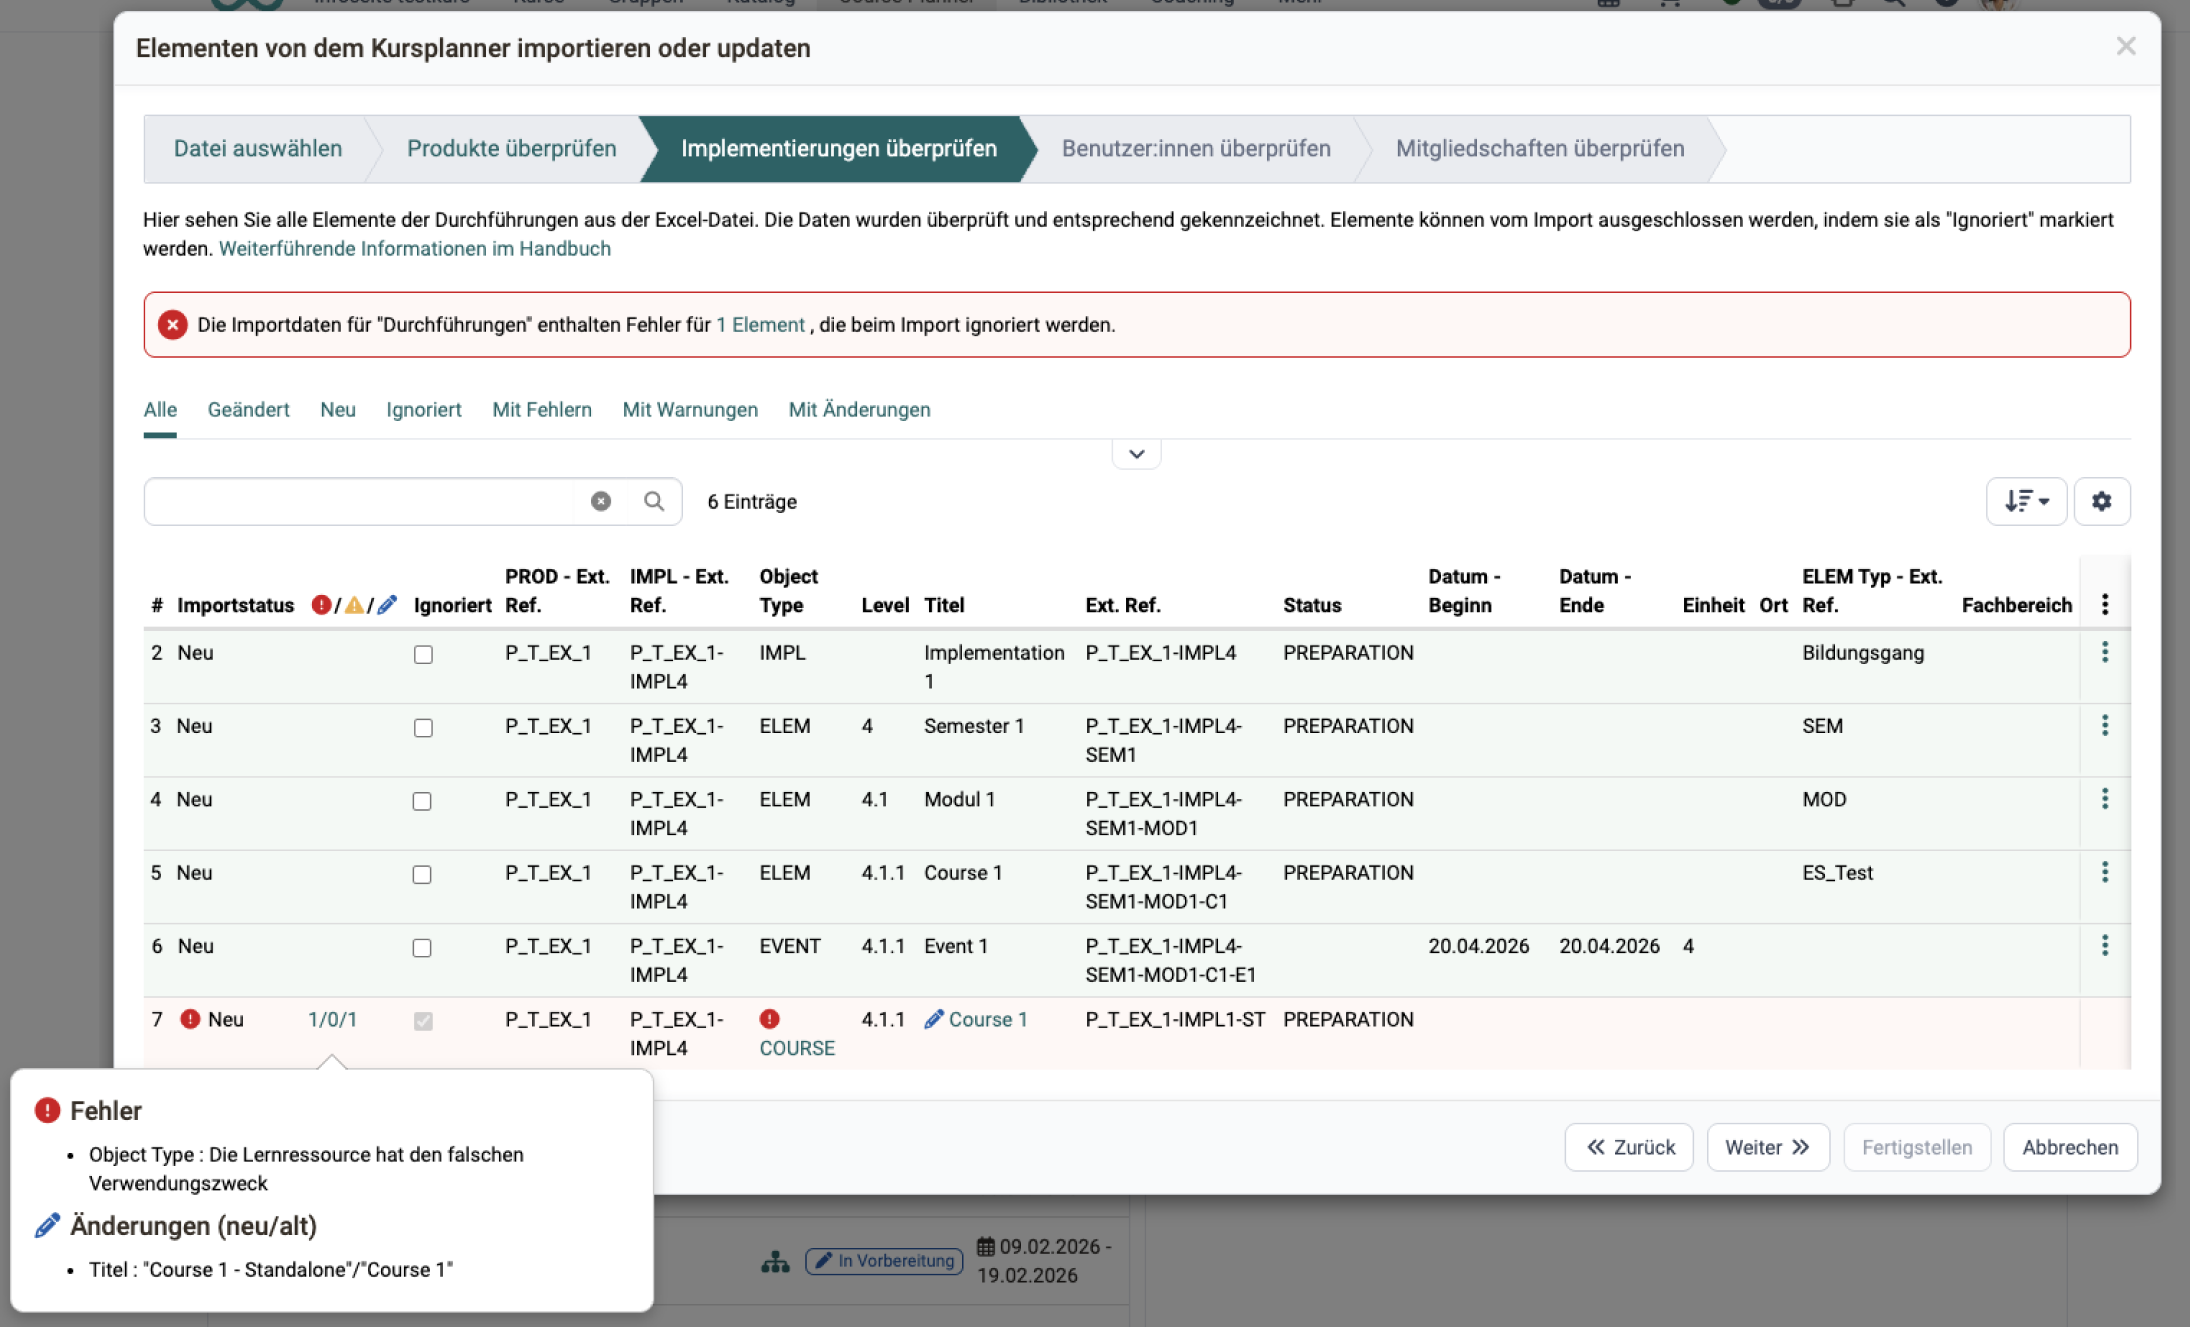
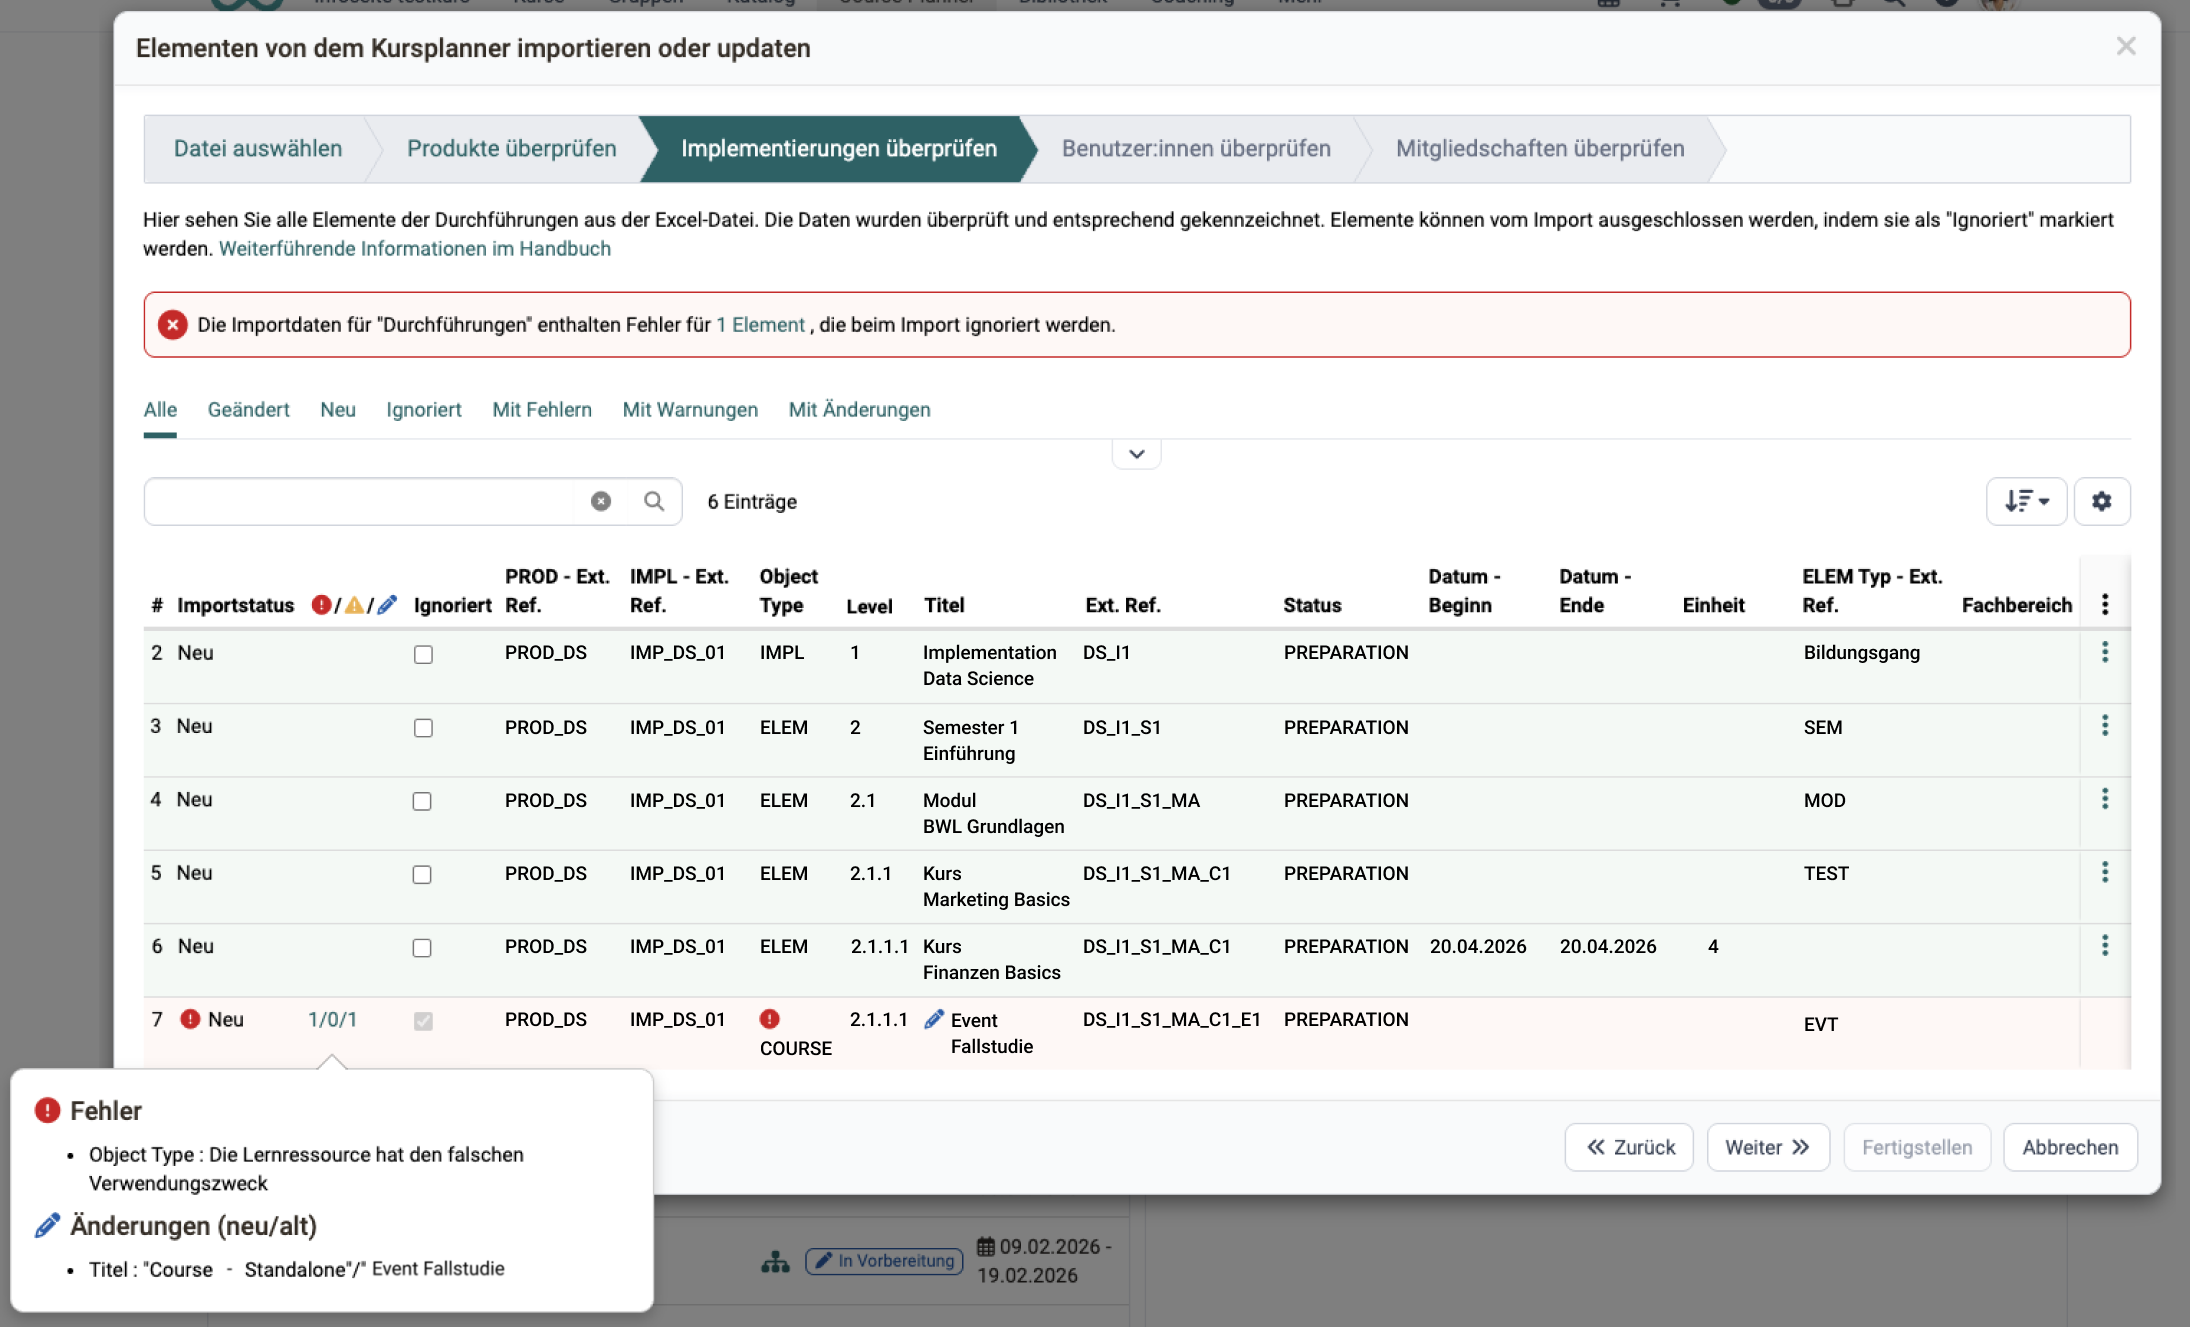
Update: release notes 20.3 and image – CPL: technical details are still pending

diff --git a/sites/release_notes/docs/Release_notes_20.3.de.md b/sites/release_notes/docs/Release_notes_20.3.de.md
@@ -8,54 +8,51 @@
 
 * * *
 
-Mit **OpenOlat 20.3** wurden zentrale Bereiche der Plattform gezielt weiterentwickelt. Im Fokus standen die flexible Gestaltung und Erweiterungen der **persönlichen Dashboards**, der neue **Master Import** im Course Planner sowie zahlreiche Verbesserungen für eine effizientere Nutzung im Alltag.
-
-Das persönliche Dashboard wurde neu individualisierbar gestaltet – Widgets können nun frei angeordnet, ein- oder ausgeblendet werden. Zudem wurde im Course Planner mit dem neuen Master Import das effiziente Anlegen und Ergänzen von Durchführungen, Terminen und Mitgliedschaften per Excel ermöglicht.
+Mit **OpenOlat 20.3** wurden zentrale Bereiche weiterentwickelt. Der Fokus lag auf der flexiblen Gestaltung der **Widgets**, dem neuen **Master-Import/Export** im Course Planner und zahlreichen Verbesserungen für eine effizientere Nutzung im Alltag.
 
 ## Highlights
 
-**Dasbhboards und Widgets** – Die Dashboards un Coachtig Tool und dem Course Planner wurden um neue und erweiterte Widgets ergänzt. Das persönliche Dashboard kann individuell gestaltet werden und der Course Planner bietet eine kompakte Übersicht über laufende Durchführungen. Das Coaching Tool wurde um ein Ereignis- und ein Kalender-Widget erweitert, die bevorstehende Termine übersichtlich anzeigen. Kennzahlen und Standardeinstellungen im Kurs-Widget wurden überarbeitet.
+**Widgets** – Übersichtsseiten im Course Planner und Coaching Tool wurden um neue und erweiterte Widgets ergänzt. Das persönliche Dashboard kann individuell gestaltet werden, der Course Planner bietet eine kompakte Übersicht über laufende Durchführungen und das Coaching Tool zeigt relevante Termine direkt an.
 
-**Markdown-Import im Content Editor** – Seiten können nun direkt aus Markdown-Dateien importiert werden. Inhalte aus externen Quellen oder mit KI unterstützt erzeugte Inhalte lassen sich so mit wenigen Klicks übernehmen und strukturiert darstellen – eine effiziente Grundlage für die Erstellung und Weiterentwicklung von Kursinhalten.
+**Seiten-Baustein – Markdown-Import** – In einer ersten Version können Seiten direkt aus Markdown-Dateien importiert werden. Inhalte aus externen Quellen lassen sich so schnell übernehmen und strukturiert darstellen – eine effiziente Grundlage für die Erstellung und Weiterentwicklung von Kursinhalten.
 
 **KI-Funktionen** – Das KI Modul unterstützt neu verschiedene KI-Anbieter (OpenAI, Anthropic, allgemeine OpenAI-kompatible Dienste). Beim Hochladen von Bildern werden Metadaten wie Alt-Text, Titel und Schlagwörter automatisch generiert. Die Erstellung von Multiple-Choice-Fragen wurde qualitativ verbessert und unterstützt beliebige Sprachen. 
 
-**Course Planner – Master Import** – Durchführungen, Termine und Mitgliedschaften können per Excel-Import effizient angelegt und nachträglich ergänzt werden. Ein integrierter Assistent prüft die Daten vor dem Import und unterstützt mit klaren Rückmeldungen.
-
+**Course Planner – Master Import/Export** – Produktstrukturen, Durchführungen und Mitgliedschaften können vollständig exportiert und in andere OpenOlat-Instanzen übertragen werden. Ein integrierter Assistent prüft die Daten vor dem Import und unterstützt mit klaren Rückmeldungen.
 
 ![Anzahl Features und Bugs in Release 20.3](assets/203/Features_Improvements_Labels_20.3_DE.png)
 
 Seit Release 20.2 wurden über 105 neue Funktionen und Verbesserungen zu OpenOlat hinzugefügt. Hier finden Sie die wichtigsten Neuerungen zusammengefasst. Zusätzlich wurden zahlreiche Bugs behoben. Die komplette Liste der Änderungen in 20.2.x finden Sie [hier](Release_notes_20.2.de.md){:target="_blank"}.
 
+**Vorankündigung:** Ab Release 21.0 wird eine strikte Trennung zwischen Lernen und Coaching eingeführt: Gelernt wird wie gewohnt im Bereich Kurse, während Betreuende, Kursbesitzer:innen und weitere Rollen – etwa Linienvorgesetzte oder Bildungsmanager – den Bereich Coaching nutzen.
+
 * * *
 
 ## Widgets
 
-### Dashboard personalisieren
+### Widget & Course Planner
 
-Widgets wurden funktional erweitert und vereinheitlicht: Das persönliche **Dashboard** kann individuell gestaltet werden, indem Widgets frei angeordnet sowie ein- oder ausgeblendet werden. Gleichzeitig bieten Widgets wie das Tabellen- und Mitglieder-Widget erweiterte Konfigurationsmöglichkeiten bei einheitlicher Bedienung.
+Widgets wurden funktional erweitert und vereinheitlicht: Sie lassen sich frei anordnen sowie ein- oder ausblenden. Gleichzeitig bieten Widgets wie das Tabellen- und Mitglieder-Widget erweiterte Konfigurationsmöglichkeiten bei einheitlicher Bedienung.
 
-### Course Planner
+### Übersichts-Widget (Course Planner)
 
-Im **Course Planner** sorgen neue Übersichts-Widgets dafür, dass relevante Informationen – wie laufende Durchführungen – direkt auf der Startseite sichtbar sind. Über die Einstellungen lassen sich Kennzahlen, Status und die Anzahl der angezeigten Einträge flexibel anpassen.
+Im Course Planner zeigt das neue **Übersichts-Widget** laufende Durchführungen direkt auf der Startseite. Kennzahlen, Status und die Anzahl der angezeigten Einträge sind flexibel konfigurierbar.
 
 ![Dashboard Widget Konfiguration](assets/203/Dashboard_widget_config_DE.png){ class="shadow lightbox" title="Dashboard: Individuelle Widget-Konfiguration" }
 
-### Coaching Tool
+### Ereignis-Widget (Coaching Tool)
 
-#### Ereignis-Widget
-
-Das Coaching Tool wurde um ein neues **Ereignis-Widget** erweitert, das bevorstehende Termine übersichtlich anzeigt – mit direkten Links zu den jeweiligen Kursen. Kennzahlen und Standardeinstellungen im Kurs-Widget wurden überarbeitet.
+Das neue **Ereignis-Widget** zeigt bevorstehende Termine übersichtlich an – mit direkten Links zu den jeweiligen Veranstaltungen. Kennzahlen und Standardeinstellungen im Kurs-Widget wurden überarbeitet.
 
 ![Coaching Tool Event Widget](assets/203/CoachingTool_event_widget_DE.png){ class="shadow lightbox" title="Coaching Tool: Ereignis-Widget" }
 
-#### Kalender-Widget
+### Kalender-Widget (Coaching Tool)
 
 Das **Kalender-Widget** im Coaching Tool bietet eine übersichtliche Darstellung aller anstehenden Termine und erleichtert die zeitliche Orientierung im Arbeitsalltag. Relevante Veranstaltungen werden direkt im Kontext des Kalenders angezeigt, inklusive Datum, Uhrzeit und – falls vorhanden – Ort.
 
 Die Farbcodierung unterstützt die schnelle Einordnung: Orange markiert aktuell laufende Termine, während Blau den nächsten anstehenden Termin hervorhebt. So lassen sich Prioritäten auf einen Blick erkennen und Termine effizient planen.
 
-![Coaching Tool Event Widget](assets/203/CoachingTool_kalender_widget_DE.png){ class="shadow lightbox" title="Coaching Tool: Kalender-Widget" }
+![Coaching Tool Event Widget](assets/203/CoachingTool_kalender_widget_DE.png){ class="shadow lightbox" title="Coaching Tool: Ereignis-Widget" }
 
 * * *
 
@@ -116,6 +113,11 @@ Neue Funktionen ermöglichen es, dass Teilnehmende Mitgliedschaften selbstständ
 ### Aktivitäts-Log im Zertifikatsprogramm
 
 Mit dem neuen **Aktivitäts-Log** werden alle relevanten Vorgänge im Zertifikatsprogramm zentral erfasst – darunter Mitgliedschaften, Benachrichtigungen, Zertifikate und Einstellungen. Die Einträge sind vollständig einsehbar und lassen sich gezielt filtern.
+
+!!! Info Markdown
+
+	Das Aktivitäts-Log schafft Nachvollziehbarkeit: Änderungen und Vorgänge im Course Planner sind lückenlos dokumentiert und auf einen Blick auffindbar – das erleichtert die Fehlersuche, erhöht die Transparenz und stärkt die Qualitätssicherung.
+
 
 * * *
 